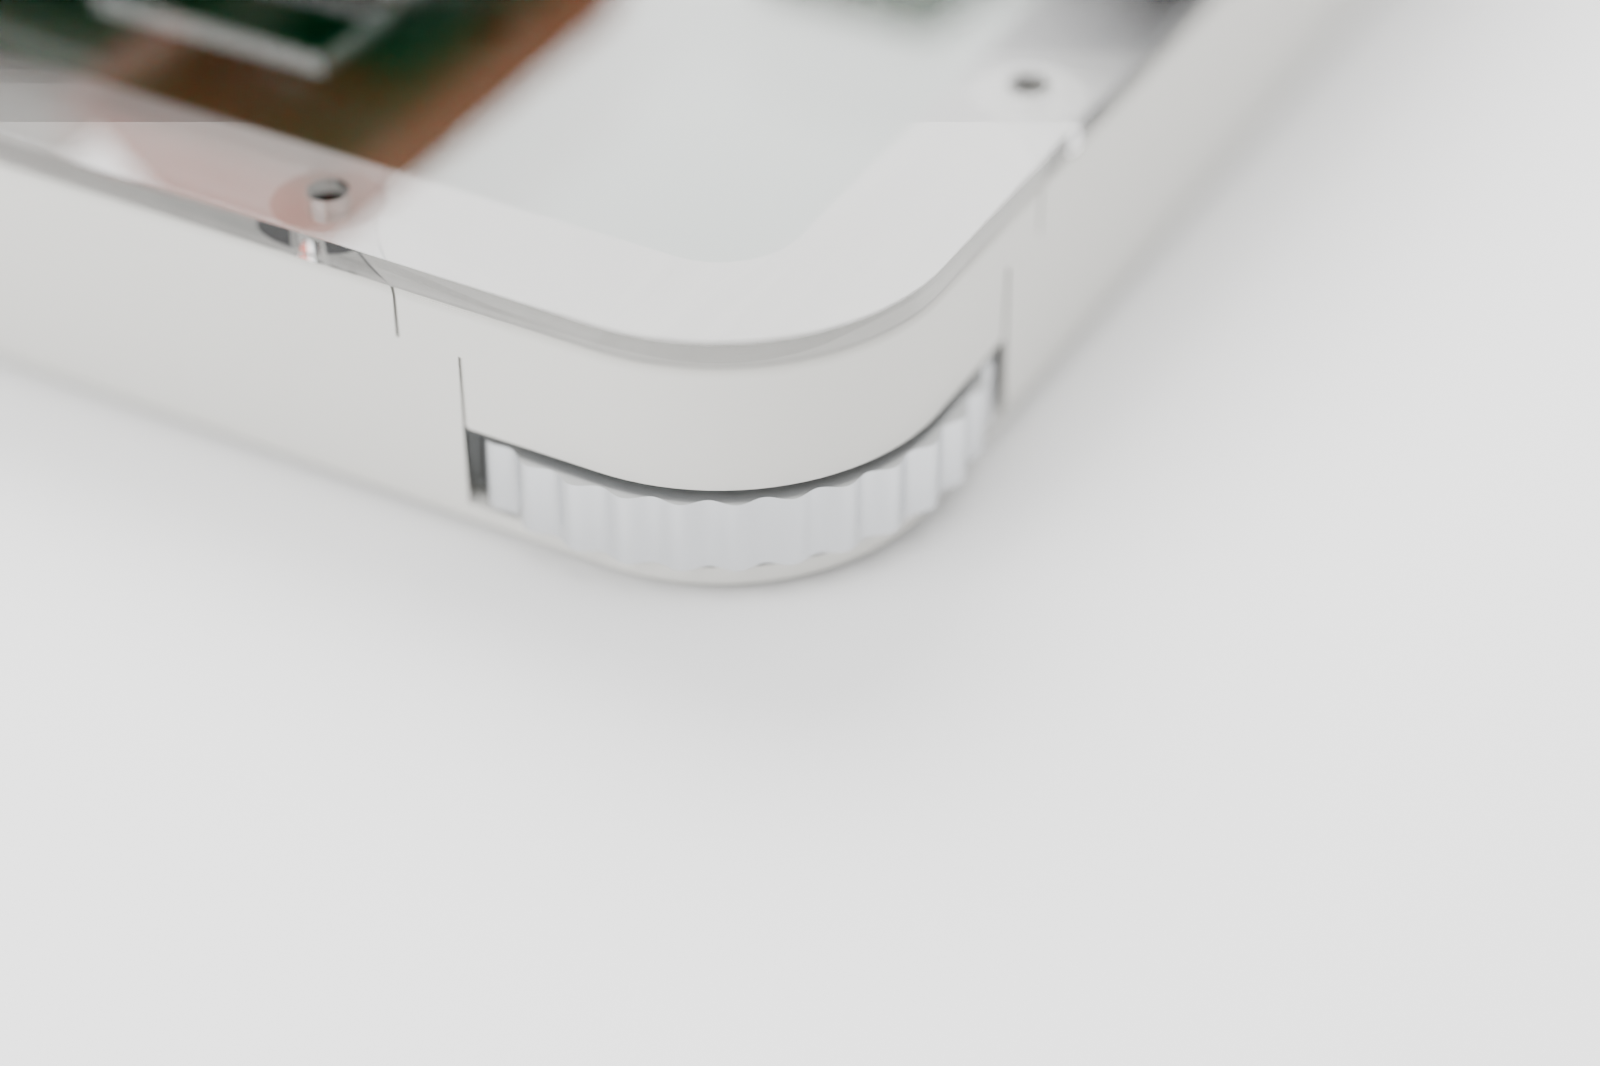
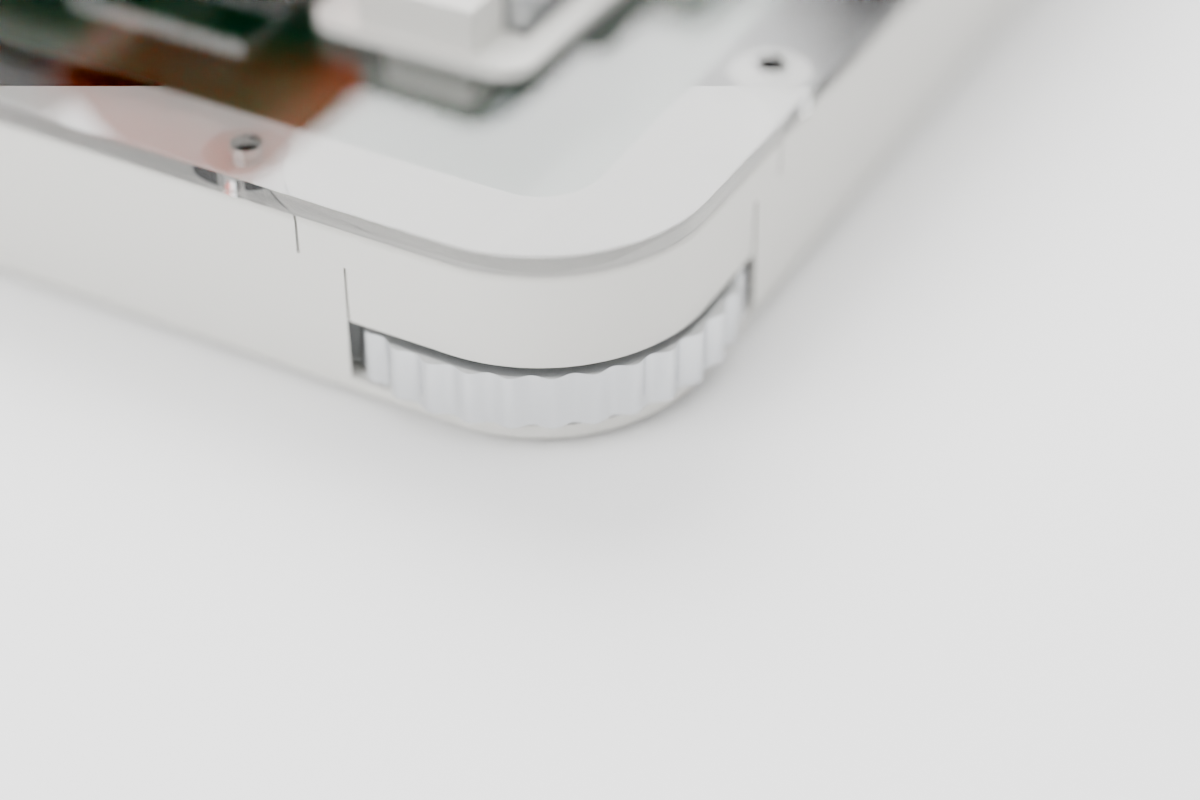
Drum dial step 8: README, ordering documents and renders
README: a drum dial section (place centred on Backspace, encoder, bearing block, bezel, firmware), the
overview table, the pin table (GP22 / GP23 on the right; GP24-29 spare), the front-side parts, the BOM
notes and table, the hand-soldered parts for JLCPCB, the file tree, the 3D model note and the QMK note
(lint and generated config checked, compile not yet). docs/ordering.md and docs/pre-order-checklist.md list
the EC10E (LCSC, 5 per unit), the resin drum and the printed block and bezel.
render_blender.py imports the placed drum parts from case/preview and adds a "drum" close-up, which
render_all.sh now renders; the hero, detail, OLED and right wheel renders are redone with the drum in.

Checked: textlint 0 on README.md, docs/ordering.md, docs/pre-order-checklist.md, docs/specs/drum-dial.md;
./gen/render_all.sh completes; docs/img/render-drum.png shows the drum centred over Backspace in its bezel.

Changed region(s): [[0.185, 0.0, 0.555, 0.1562], [0.0, 0.0312, 0.1542, 0.125]]

diff --git a/gen/render_blender.py b/gen/render_blender.py
@@ -254,6 +254,16 @@ def corner_wheel(side):
     return [w]
 
 
+def drum_dial(side):
+    """Drum dial at the top right of the right half: drum, bearing block and bezel, placed by make_case.py."""
+    out = []
+    for name, mat in (('drum', 'metal'), ('drum-block', 'case'), ('drum-bezel', 'case')):
+        path = os.path.join(ROOT, 'case', 'preview', f'{side}-{name}-placed.stl')
+        if os.path.exists(path):
+            out.append(import_stl(path, MAT[mat], f'{side} {name}'))
+    return out
+
+
 def knurled_plug(name, length=16.0, radius=3.6):
     bpy.ops.mesh.primitive_cylinder_add(vertices=48, radius=radius * MM, depth=length * MM)
     body = bpy.context.active_object
@@ -351,6 +361,7 @@ def build_half(side, world):
         objs.append(cover)
         data['oled_module'] = None
     objs += corner_wheel(side)
+    objs += drum_dial(side)
     if OLED_H is not None and OLED_H not in ('0', '0.0'):
         # the display moved away from the plate window: close the window (plate without it)
         fill = import_stl(os.path.join(VARIANTS, f'{side}-lens-0.stl'), MAT['case'], f'{side} window fill')
@@ -604,6 +615,12 @@ def finish(W, data):
         t = board_point(W[side], cx, o['y0'] - 6.0, 5.0)
         shots[f'wheel-{side}'] = dict(loc=tuple(t + Vector((sx * 0.12, 0.05, 0.10))), target=tuple(t),
                                       lens=75, focus=tuple(t), fstop=5.6, res=(RES, int(RES * 2 / 3)))
+    # close-up of the drum dial (right half, top right), from the typist's side
+    if 'drum' in data['right']:
+        x, y = data['right']['drum']['origin']
+        t = board_point(W['right'], x + 6.4, y, FLOOR + STANDOFF + PCB_T + 7.0)   # drum centre (axis 7 mm over the PCB)
+        shots['drum'] = dict(loc=tuple(t + Vector((0.05, -0.08, 0.15))), target=tuple(t),
+                             lens=75, focus=tuple(t), fstop=5.6, res=(RES, int(RES * 2 / 3)))
     # the left half's inner top corner, from outside: USB-C and TRRS on the back edge
     o = data['left']['outline']
     t = board_point(W['left'], o['x1'] - 26.0, o['y0'] - 4.0, 4.0)
